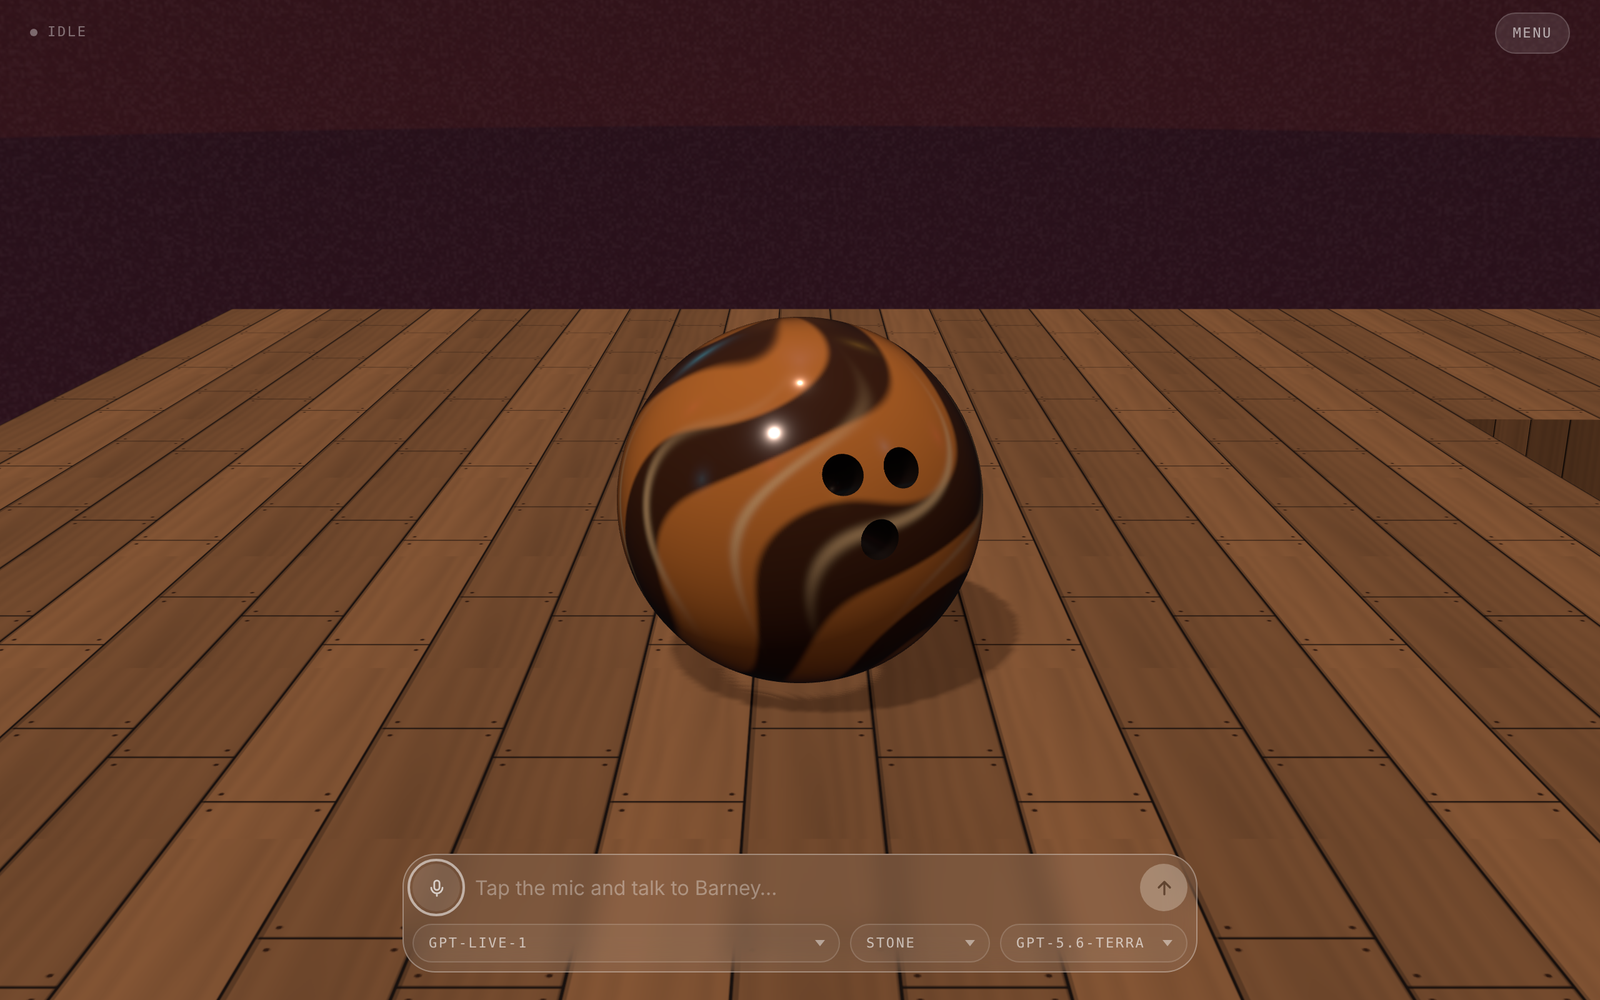
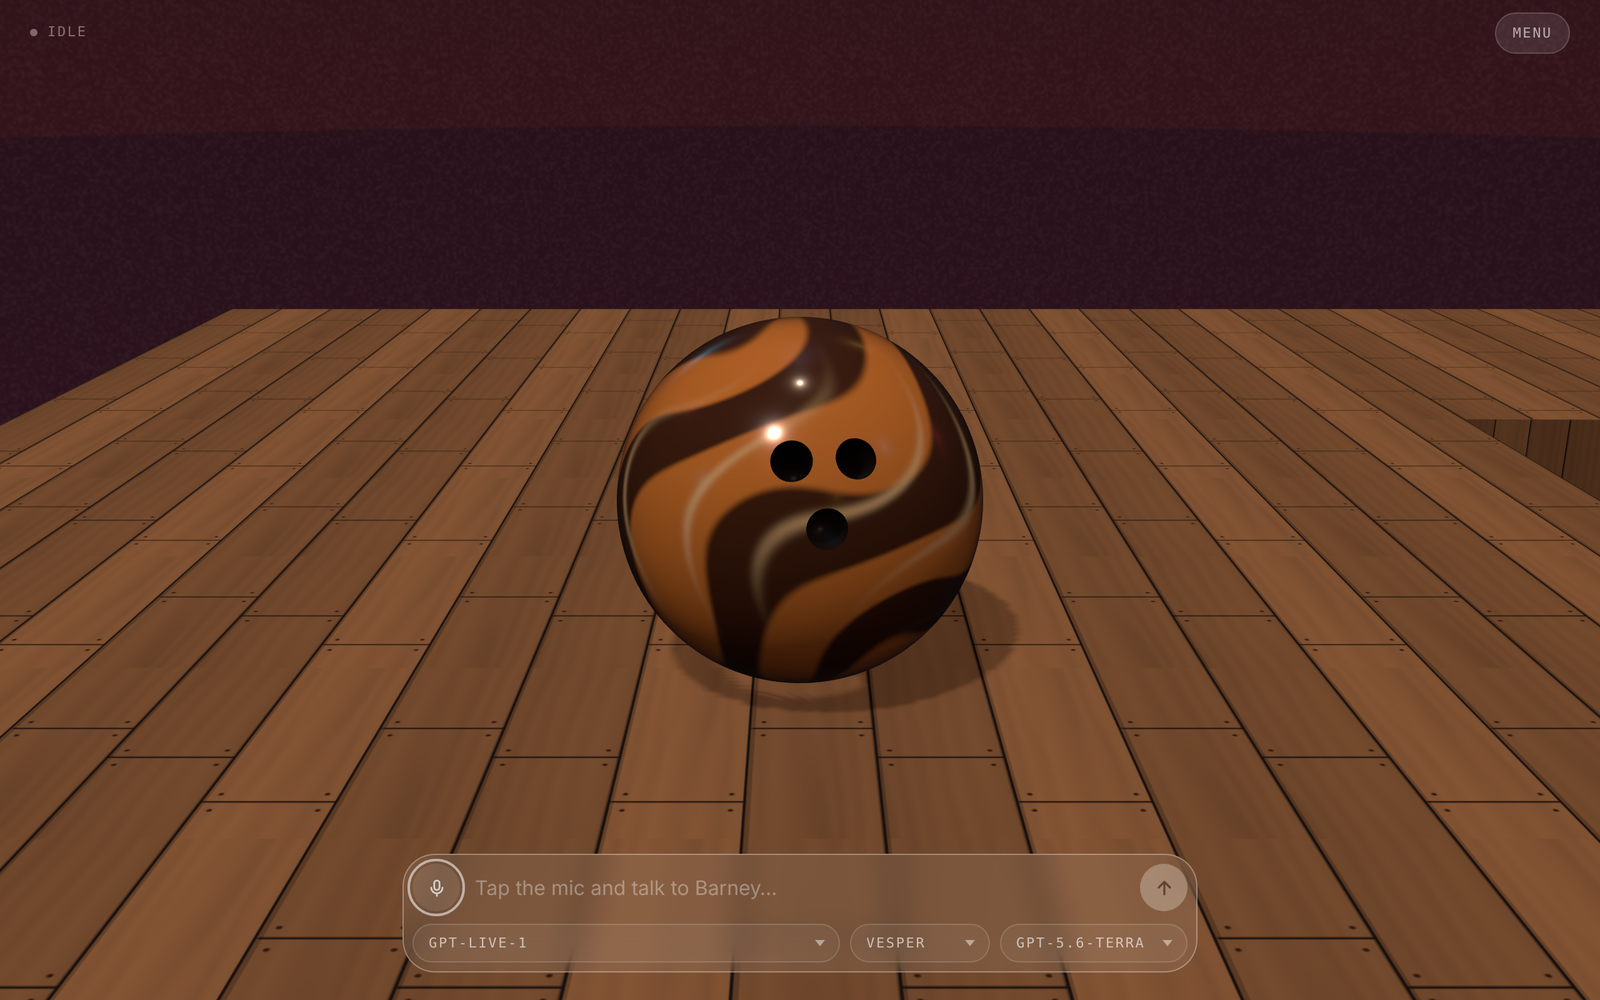
Default voice vesper; lay the board flat
- OPENAI_VOICE now defaults to vesper (first in the list, in the .env example,
  the docs, the README and the tests), and the screenshots show it.
- The starter's board loses its ramp and platform: a flat planked floor, in the
  physics and on screen. Barney may now roam all of it clear of the edge, and
  starts in the middle.

Claude-Session: https://claude.ai/code/session_01EikGxvsJ7764fZKejTFbA7

Changed region(s): [[0.375, 0.31, 0.625, 0.682], [0.5312, 0.93, 0.5625, 0.961]]

diff --git a/src/client/ball/board.js b/src/client/ball/board.js
@@ -2,58 +2,33 @@ import { FLOORS, tiled } from 'madness-engine/textures/painters';
 import { World } from 'madness-engine/physics';
 
 /**
- * The board from the engine's starter example (`examples/starter`): a planked
- * floor in the physics and on screen, with a ramp up to a platform. It is the
- * same ground the engine's own games are built on, so Barney rolls on it the
- * way the marble does.
+ * The board from the engine's starter example (`examples/starter`), laid flat:
+ * a planked floor in the physics and on screen. It is the same ground the
+ * engine's own games are built on, so Barney rolls on it the way the marble
+ * does.
  */
 export const SIZE = 12;
-const PLATFORM = { x0: 7, x1: 11, z0: 7, z1: 11, y: 1 };
-const RAMP = { z0: 3, z1: 7 };
 
-/** Where Barney wanders: the flat floor beside the ramp, clear of its walls and the edge. */
-export const ROAM = Object.freeze({ x: [1.3, 6.2], z: [1.3, 10.7] });
+/** Where Barney wanders: the floor, clear of its edge. */
+export const ROAM = Object.freeze({ x: [1.3, 10.7], z: [1.3, 10.7] });
 
 /** Where he starts, and where the camera first looks. */
-export const HOME = Object.freeze({ x: 3.8, z: 6 });
+export const HOME = Object.freeze({ x: 6, z: 6 });
 
-/** How high the board is at (x, z); null off its edge. */
-export function heightAt(x, z) {
-  if (x < 0 || z < 0 || x > SIZE || z > SIZE) return null;
-  if (x >= PLATFORM.x0 && x <= PLATFORM.x1) {
-    if (z >= PLATFORM.z0 && z <= PLATFORM.z1) return PLATFORM.y;
-    if (z >= RAMP.z0 && z < RAMP.z1) return ((z - RAMP.z0) / (RAMP.z1 - RAMP.z0)) * PLATFORM.y;
-  }
-  return 0;
-}
-
-/** The board's triangles, for the physics and for the picture alike. */
+/** The board's triangles, for the physics and for the picture alike: a tile at a time, so the planks tile. */
 export function boardTriangles() {
   const tris = [];
-  const quad = (a, b, c, d) => tris.push([a, b, c], [a, c, d]);
-  const { x0, x1, z0, z1, y } = PLATFORM;
   for (let x = 0; x < SIZE; x++) {
     for (let z = 0; z < SIZE; z++) {
-      // A tile of the ramp or the platform has its corners at their height; the rest is floor.
-      const raised = x >= x0 && x < x1 && z >= RAMP.z0 && z < z1;
-      const at = (px, pz) => [px, raised ? heightAt(px, pz) : 0, pz];
-      quad(at(x, z), at(x, z + 1), at(x + 1, z + 1), at(x + 1, z));
+      const a = [x, 0, z], b = [x, 0, z + 1], c = [x + 1, 0, z + 1], d = [x + 1, 0, z];
+      tris.push([a, b, c], [a, c, d]);
     }
-  }
-  // The sides: the back of the platform, and down each side the ramp and the platform.
-  quad([x0, 0, z1], [x0, y, z1], [x1, y, z1], [x1, 0, z1]);
-  for (const x of [x0, x1]) {
-    tris.push([[x, 0, RAMP.z0], [x, 0, z0], [x, y, z0]]);
-    quad([x, 0, z0], [x, 0, z1], [x, y, z1], [x, y, z0]);
   }
   return tris;
 }
 
-/** Where a corner of a triangle is on the planks: across the ground for the floor, along and up for a side. */
-function uvOf(tri) {
-  const upright = tri.every((p) => p[0] === tri[0][0]) || tri.every((p) => p[2] === tri[0][2]);
-  return tri.map(([x, y, z]) => (upright ? [x + z, y] : [x, z]));
-}
+/** Where a corner of a triangle is on the planks: across the ground. */
+const uvOf = (tri) => tri.map(([x, , z]) => [x, z]);
 
 /** The board in the physics, and drawn in planks. */
 export function createBoard(GFX) {

diff --git a/test/server/openai.test.js b/test/server/openai.test.js
@@ -48,7 +48,7 @@ describe('GPT-Live backend', () => {
     assert.deepEqual(req.body.transport, { type: 'webrtc', sdp: 'offer' });
     const s = req.body.session;
     assert.equal(s.model, 'gpt-live-1');
-    assert.equal(s.audio.output.voice, 'stone');
+    assert.equal(s.audio.output.voice, 'vesper');
     assert.equal(s.audio.input, undefined);
     assert.equal(s.type, undefined);
     assert.equal(s.delegation.responses.model, 'gpt-5.6-terra');

diff --git a/src/client/ball/index.js b/src/client/ball/index.js
@@ -135,7 +135,7 @@ export function createBarney({ stage, board, random = Math.random, events = glob
     return pointerOffset({ ray: ray.ray, eye, toCamera, reach: REACH * R });
   }
 
-  /** Where to roll next: somewhere on the floor beside the ramp, not far from here. */
+  /** Where to roll next: somewhere on the floor, not far from here. */
   function chooseGoal() {
     const reach = 0.8 + 1.8 * m.roam;
     const a = random() * Math.PI * 2;

diff --git a/test/server/config.test.js b/test/server/config.test.js
@@ -9,7 +9,7 @@ describe('loadConfig', () => {
     assert.equal(config.port, 5173);
     assert.equal(config.baseUrl, 'https://api.openai.com/v1');
     assert.equal(config.defaultModel, 'gpt-live-1');
-    assert.equal(config.defaultVoice, 'stone');
+    assert.equal(config.defaultVoice, 'vesper');
     assert.deepEqual(config.voices, [...KNOWN_VOICES]);
     assert.equal(config.apiKey, undefined);
   });

diff --git a/src/server/config.js b/src/server/config.js
@@ -1,5 +1,5 @@
 export const KNOWN_VOICES = Object.freeze([
-  'stone', 'ripple', 'vesper', 'meridian', 'tempo', 'beacon', 'cinder',
+  'vesper', 'stone', 'ripple', 'meridian', 'tempo', 'beacon', 'cinder',
 ]);
 
 function flag(value, fallback) {

diff --git a/docs/design.md b/docs/design.md
@@ -54,9 +54,8 @@ finger holes doing for a face. He is a rigid ball: he never squashes or
 stretches, and everything he does is a ball doing it.
 
 He lives on the engine's starter stage: the wooden board from
-`examples/starter` (a planked floor with a ramp and a platform, in the physics
-and on screen), the engine's `createStage` for renderer, light, shadow and
-camera, and the engine's `dive` mood — Sticky's, a dive bar — for the lamp
+`examples/starter`, laid flat (a planked floor, in the physics and on screen),
+the engine's `createStage` for renderer, light, shadow and camera, and the engine's `dive` mood — Sticky's, a dive bar — for the lamp
 light, the neon in what the resin reflects and the dark of the bar beyond. The
 camera follows him as it follows the marble. What is Barney's own is in
 `src/client/ball/`.
@@ -82,8 +81,8 @@ Transcript activity drives listening and speaking poses. Backend work drives
 thinking between transcript updates. The display timeout is a visual heuristic,
 not proof of audio playback completion.
 
-He is steered, not animated. A small controller picks a waypoint on the flat
-floor beside the ramp, pushes the engine's `stepBall` toward it and brakes as he
+He is steered, not animated. A small controller picks a waypoint on the
+floor, pushes the engine's `stepBall` toward it and brakes as he
 arrives; the picture is whatever the physics did. `rollSpin` and `turn` turn him
 as he goes, so he rolls the way a ball rolls, and once he stops he eases back
 round to face you.
@@ -109,7 +108,7 @@ src/
     tools.js            Which of the server's tools this browser switched off
     ball/               The ball and how it moves. Knows nothing about transports
       index.js            The controller, the physics steps and the per-frame loop
-      board.js            The starter's wooden board, in the physics and on screen
+      board.js            The starter's wooden board, laid flat, in the physics and on screen
       moods.js            Targets per conversational state
       motion.js           The spring and the chase every channel eases on
       model.js            The engine's bowling ball, in Barney's resin

diff --git a/docs/configuration.md b/docs/configuration.md
@@ -6,7 +6,7 @@ Both `npm run dev` and `npm start` read `.env`.
 |---|---|---|
 | `OPENAI_API_KEY` | — | Required. Stays in the Node process. |
 | `MEMORY` | `true` | The `remember` and `forget` tools, and the memory block in the prompt |
-| `OPENAI_VOICE` | `stone` | Initial voice: stone, ripple, vesper, meridian, tempo, beacon, cinder |
+| `OPENAI_VOICE` | `vesper` | Initial voice: vesper, stone, ripple, meridian, tempo, beacon, cinder |
 | `OPENAI_LIVE_MODEL` | `gpt-live-1` | Preselected GPT-Live model |
 | `OPENAI_BACKEND_MODEL` | `gpt-5.6-terra` | Preselected Responses backend for reasoning and tools |
 | `WEB_SEARCH` | `true` | Hosted web search; browsers may disable it |
@@ -15,7 +15,7 @@ Both `npm run dev` and `npm start` read `.env`.
 | `SSL_KEY`, `SSL_CERT` | — | Paths to a real certificate; `npm start` then serves HTTPS |
 
 The picker lists GPT-Live models accessible to your API key. Barney defaults to
-Stone. An authorized voice outside the list can be set with `OPENAI_VOICE`.
+Vesper. An authorized voice outside the list can be set with `OPENAI_VOICE`.
 
 The third picker is the other end of the call: the Responses model Barney
 delegates reasoning, lookups and tool calls to. It lists the text models your

diff --git a/README.md b/README.md
@@ -38,7 +38,7 @@ by default). Voice duration and backend tokens are billed separately.
 Click the mic, allow the browser's microphone prompt, and start talking.
 
 Three pickers sit under the composer: the GPT-Live model that does the talking,
-the voice it talks in (Stone by default), and the Responses model behind it that
+the voice it talks in (Vesper by default), and the Responses model behind it that
 reasons and looks things up. Changing any of them redials and keeps the
 conversation.
 
